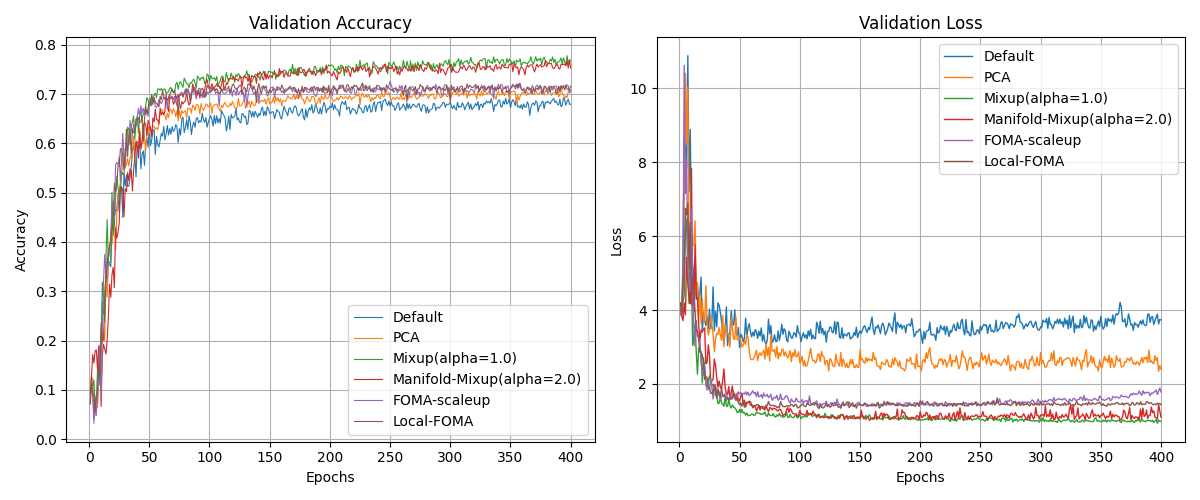
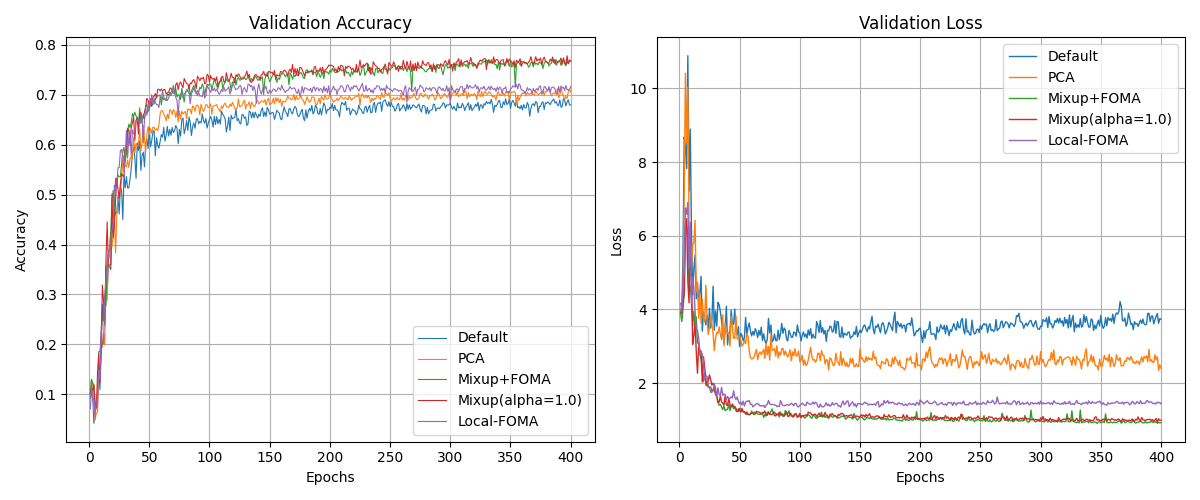
knn distance monitor

diff --git a/visualize_umap.py b/visualize_umap.py
@@ -12,15 +12,15 @@ from torchvision.datasets import STL10, CIFAR10, CIFAR100
 from tqdm import tqdm
 
 # 設定
-epochs     = 10
-data_type  = "cifar10"
+epochs     = 400
+data_type  = "cifar100"
 model_type = "wide_resnet_28_10"
 device     = torch.device('cuda' if torch.cuda.is_available() else 'cpu')
 
 augmentations = [
     # "Local-FOMA",
-    "Mixup",
-    # "Default",
+    # "Mixup",
+    "Default",
 ]
 
 for augment in augmentations:
@@ -60,7 +60,7 @@ for augment in augmentations:
     elif data_type == "cifar10":
         test_dataset = CIFAR10(root="./data", train=False, download=True, transform=transform)
     
-    # テストセットの1/10だけ使う
+    # テストセットの半分だけ使う
     total_len = len(test_dataset)
     subset_len = total_len // 2
     indices = random.sample(range(total_len), subset_len)

diff --git a/result.py b/result.py
@@ -25,13 +25,14 @@ def main():
 
         # "Conf-Mixup",
 
+        "Mixup+FOMA",
         # "Mixup(alpha=0.5)",
         "Mixup",
         # "Mixup(alpha=2.0)",
         # "Mixup(alpha=5.0)",
         # "Manifold-Mixup(alpha=0.5)",
         # "Manifold-Mixup(alpha=1.0)",
-        "Manifold-Mixup",
+        # "Manifold-Mixup",
         # "Manifold-Mixup(alpha=5.0)",
         # "Mixup-Curriculum",
 
@@ -45,7 +46,7 @@ def main():
         # "Teacher-SK-Mixup-Curriculum",
 
         # "FOMA",
-        "FOMA-scaleup",
+        # "FOMA-scaleup",
         "Local-FOMA",
         # "FOMA_latent_random",
 

diff --git a/knn_distance_monitor.py b/knn_distance_monitor.py
@@ -69,10 +69,10 @@ def compute_avg_knn_distance(features, k=10):
 
 def main():
     # Parameters
-    data_type   = "cifar10"       # or "cifar100", "stl10"
+    data_type   = "cifar100"       # or "cifar100", "stl10"
     model_type  = "wide_resnet_28_10"
-    augment     = "Mixup"       # folder name used for checkpoints
-    epochs_list = [20, 250]
+    augment     = "Default"       # folder name used for checkpoints
+    epochs_list = [5, 400]
 
     # Determine dataset-specific settings
     if data_type == "stl10":
